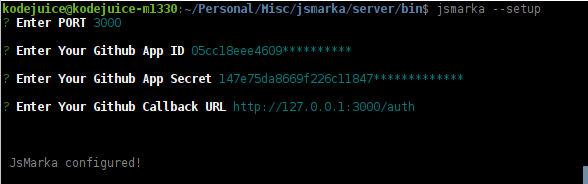
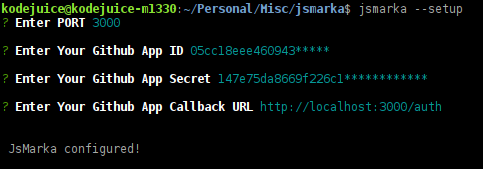
Finishing touch :)

diff --git a/README.md b/README.md
@@ -1,0 +1,102 @@
+# JSMarka
+[![NPM version](https://img.shields.io/npm/v/jsmarka.svg)](https://www.npmjs.com/package/jsmarka)
+[![Build Status](https://img.shields.io/travis/kodejuice/jsmarka.svg)](https://travis-ci.org/kodejuice/jsmarka)
+
+JSMarka is a Javascript Code Performance benchmarking app
+
+[jsmarka.com](http://jsmarka.com)
+
+
+## Running a local copy of JSMarka
+
+### Requirements
+
+1. [Node.js](https://nodejs.org/en/) v8
+
+2. [MongoDB](https://docs.mongodb.com/manual/installation)
+
+4. Register a [new OAuth GitHub application](https://github.com/settings/applications/new).
+	_(Optional, only required if you would like to save tests locally)_
+
+
+### Install using npm
+
+```bash
+$ npm install -g jsmarka
+```
+
+Once jsmarka is installed on your system, start the server using the following:
+
+```bash
+$ jsmarka -p 3000
+```
+This gets jsmarka server running on port **3000**, use `jsmarka --help` for more useful commands
+
+
+### Setup
+
+If you would like to sign in save tests locally, then you shouldn't skip step 3, Register a [new OAuth GitHub application](https://github.com/settings/applications/new), set the "Callback" url to `http://localhost:3000/auth`, then get the apps' "Client ID" and "Client Secret".
+
+_**Note:** You should set the GitHub App "Callback" urls' port to whatever you've configured jsmarka to run on. (see below)_
+
+
+### Set up jsmarka via CLI
+
+Run:
+```bash
+$ jsmarka --setup
+```
+
+![Setup terminal](./client/setup-terminal.png)
+
+After the setup, a `.env` file containing your setup info is created, to view the contents of this file do:
+
+```bash
+$ jsmarka --list
+```
+You can see that the `PORT` value is the same port used in the `GitHub App Callback URL`, that's how yours should be set.
+
+Run `jsmarka --help` to see useful commands.
+
+
+## Development
+
+If you're installing JSMarka for development purpopses then you have to clone this repo and install its dependencies:
+
+```bash
+$ git clone http://github.com/kodejuice/jsmarka.git
+$ cd jsmarka
+$ npm install
+```
+
+### Contributing to JSMarka
+
+Submit a pull request to `master` with passing tests (`npm test`).
+
+Run:
+
+```bash
+$ npm run dev
+```
+
+before writting code, as it automatically:
+1. Restarts the server on every change
+2. Re-builds the assets (if you make any changes inside [`client/`](https://github.com/kodejuice/jsmarka/tree/master/client))
+
+
+Use `npm run build` to manually re-build the assets
+
+
+### Testing
+
+JSMarka uses [casperjs](https://casperjs.org) which in turn requires [PhantomJS](http:///phantomjs.org) for end-to-end testing, So you should have both casperjs and phantomjs installed on your system.
+
+First, have a separate terminal running `npm start`
+
+Then run the test suites in another terminal/tab:
+
+```bash
+$ npm test
+```
+
+Screenshots are taken, find them in the `test/screenshots/` folder.
